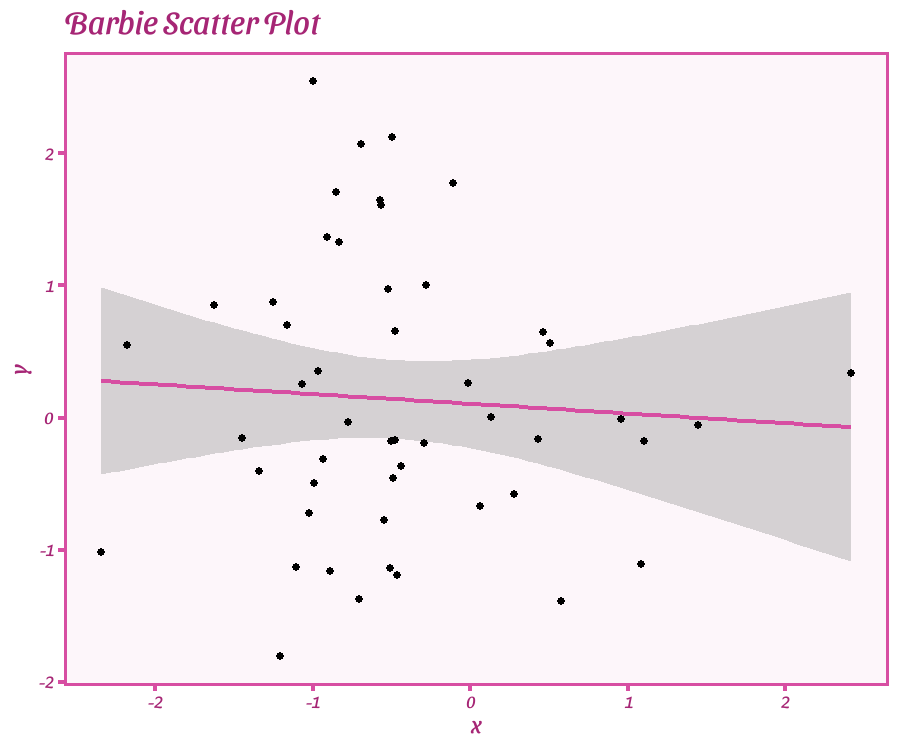
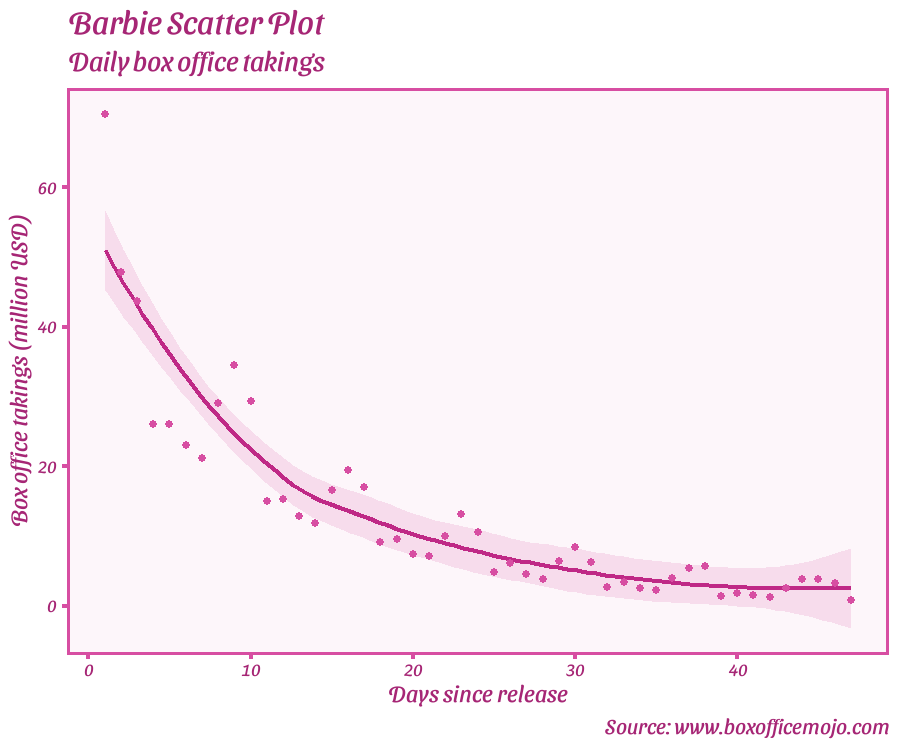
Update Barbie example
Use in-built dataset on Barbie box office stats.

Changed region(s): [[0.0, 0.0, 0.9956, 0.9507], [0.6533, 0.9507, 0.9956, 0.9813], [0.4044, 0.2453, 0.4356, 0.276]]

diff --git a/README.md b/README.md
@@ -1,12 +1,7 @@
 
 <!-- README.md is generated from README.Rmd. Please edit that file -->
 
-<figure>
-<img
-src="https://github.com/MatthewBJane/theme_park/assets/52077481/4c2e2885-d879-46e6-b61d-b253d8382597"
-alt="theme_park_banner" />
-<figcaption aria-hidden="true">theme_park_banner</figcaption>
-</figure>
+![theme_park_banner](https://github.com/MatthewBJane/theme_park/assets/52077481/4c2e2885-d879-46e6-b61d-b253d8382597)
 
 # ThemePark
 
@@ -30,31 +25,31 @@ add it or respond with suggested edits. Have fun with it!
 
 ## Themes contributed
 
-| Name                   | Theme                    | Creator(s)                  |
-|------------------------|--------------------------|-----------------------------|
-| **Barbie**             | `theme_barbie()`         | Matthew B. Jané             |
-| **Oppenheimer**        | `theme_oppenheimer()`    | Matthew B. Jané & Toki Liam |
-| **Star Wars**          | `theme_starwars()`       | Matthew B. Jané             |
-| **Zelda**              | `theme_zelda()`          | Alex Slavenko               |
-| **Terminator**         | `theme_terminator()`     | Alex Slavenko               |
-| **Spiderman**          | `theme_spiderman()`      | Velu P.K. Immonen           |
-| **Avatar**             | `theme_avatar()`         | Velu P.K. Immonen           |
-| **Gryffindor**         | `theme_gryffindor()`     | Begum Ozemek                |
-| **Hufflepuff**         | `theme_hufflepuff()`     | Begum Ozemek                |
-| **Ravenclaw**          | `theme_ravenclaw()`      | Begum Ozemek                |
-| **Slytherin**          | `theme_slytherin()`      | Begum Ozemek                |
-| **Futurama**           | `theme_futurama()`       | Tylor J. Harlow             |
-| **Simpsons**           | `theme_simpsons()`       | Tylor J. Harlow             |
-| **Lord of the Rings**  | `theme_lordoftherings()` | Ethan Milne                 |
-| **Game of Thrones**    | `theme_gameofthrones()`  | Brennan Antone              |
-| **Godfather**          | `theme_godfather()`      | Francisco Garre-Frutos      |
-| **Finding Nemo**       | `theme_nemo()`           | Christopher T. Kenny        |
-| **Friends**            | `theme_friends()`        | Alexis van STRAATEN         |
-| **Alien**              | `theme_alien()`          | Luke Pilling                |
-|**Grand Budapest Hotel**| `theme_grand_budapest`   | Katya Kustova               |
-|**Asteroid City**       | `theme_asteroid_city`    | Katya Kustova               |
-|**French Dispatch**     | `theme_french_dispatch`  | Katya Kustova               |
-|**Moonrise Kingdom**    | `theme_moonrise_kingdom` | Katya Kustova               |
+| Name                     | Theme                    | Creator(s)                  |
+|--------------------------|--------------------------|-----------------------------|
+| **Barbie**               | `theme_barbie()`         | Matthew B. Jané             |
+| **Oppenheimer**          | `theme_oppenheimer()`    | Matthew B. Jané & Toki Liam |
+| **Star Wars**            | `theme_starwars()`       | Matthew B. Jané             |
+| **Zelda**                | `theme_zelda()`          | Alex Slavenko               |
+| **Terminator**           | `theme_terminator()`     | Alex Slavenko               |
+| **Spiderman**            | `theme_spiderman()`      | Velu P.K. Immonen           |
+| **Avatar**               | `theme_avatar()`         | Velu P.K. Immonen           |
+| **Gryffindor**           | `theme_gryffindor()`     | Begum Ozemek                |
+| **Hufflepuff**           | `theme_hufflepuff()`     | Begum Ozemek                |
+| **Ravenclaw**            | `theme_ravenclaw()`      | Begum Ozemek                |
+| **Slytherin**            | `theme_slytherin()`      | Begum Ozemek                |
+| **Futurama**             | `theme_futurama()`       | Tylor J. Harlow             |
+| **Simpsons**             | `theme_simpsons()`       | Tylor J. Harlow             |
+| **Lord of the Rings**    | `theme_lordoftherings()` | Ethan Milne                 |
+| **Game of Thrones**      | `theme_gameofthrones()`  | Brennan Antone              |
+| **Godfather**            | `theme_godfather()`      | Francisco Garre-Frutos      |
+| **Finding Nemo**         | `theme_nemo()`           | Christopher T. Kenny        |
+| **Friends**              | `theme_friends()`        | Alexis van STRAATEN         |
+| **Alien**                | `theme_alien()`          | Luke Pilling                |
+| **Grand Budapest Hotel** | `theme_grand_budapest`   | Katya Kustova               |
+| **Asteroid City**        | `theme_asteroid_city`    | Katya Kustova               |
+| **French Dispatch**      | `theme_french_dispatch`  | Katya Kustova               |
+| **Moonrise Kingdom**     | `theme_moonrise_kingdom` | Katya Kustova               |
 
 ## Installation
 
@@ -84,18 +79,33 @@ head(themepark_themes)
 ```
 
 The Barbie theme (`theme_barbie()`) has been one of the most popular
-themes from `ThemePark`.
+themes from `ThemePark`. Use it with the included dataset
+`barbie_box_office` like below:
 
 ``` r
 library(ggplot2)
-`X variable` <- rnorm(50, 0, 1)
-`Y variable` <- rnorm(50, 0, 1)
+#> Warning: package 'ggplot2' was built under R version 4.2.3
 
-ggplot(data = data.frame(x = `X variable`, y = `Y variable`), aes(x = x, y = y)) +
-  geom_smooth(method = 'lm', color = barbie_theme_colors["medium"]) +
-  geom_point() +
-  labs(title = 'Barbie Scatter Plot') +
-  theme_barbie()
+# see suggested colours in the palette
+barbie_theme_colors
+#>        text       panel      border     lighter       light      medium 
+#> "#a62675ff" "#fdf6faff" "#d74ea2ff" "#f5d1e6ff" "#eeb4d7ff" "#d74ea2ff" 
+#>        dark 
+#> "#bf2986ff"
+
+# plot Box Office Takings (in million USD) over Days Since Release
+ggplot(barbie_box_office |> dplyr::mutate(daily=daily/1000000), 
+       aes(x = day, y = daily)) +
+    geom_smooth(method = 'loess', 
+                color  = barbie_theme_colors["dark"],
+                fill   = barbie_theme_colors["light"]) +
+    geom_point(color = barbie_theme_colors["medium"]) +
+    labs(title = "Barbie Scatter Plot",
+         subtitle = "Daily box office takings",
+         caption  = "Source: www.boxofficemojo.com",
+         x = "Days since release",
+         y = "Box office takings (million USD)") +
+    theme_barbie()
 #> `geom_smooth()` using formula = 'y ~ x'
 ```
 
@@ -110,6 +120,9 @@ gameofthrones_theme_colors
 #>  "#1f0700"  "#D7B257"  "#F2F3B8"  "#BD6D33"  "#F2F3B8"  "#DFCB69"  "#BD6D33" 
 #>       dark 
 #>  "#8C4522"
+
+`X variable` <- rnorm(50, 0, 1)
+`Y variable` <- rnorm(50, 0, 1)
 
 ggplot(data = NULL, aes(x = `X variable`, y = `Y variable`)) +
   theme_gameofthrones(gameofthrones_font = TRUE) +
@@ -167,7 +180,7 @@ ggplot(data.frame(x = rnorm(100), y = rnorm(100)), aes(x, y)) +
 
 ### BibTeX:
 
-    @software{JaneThemePark2023,
+    @software{JaneBarbie2023,
       author = {Jané, Matthew B. and Pilling, Luke C. and Kenny, Christopher T.},
       month = {6},
       title = {theme_park: popular culture ggplot themes},
@@ -178,6 +191,6 @@ ggplot(data.frame(x = rnorm(100), y = rnorm(100)), aes(x, y)) +
 
 ### APA:
 
-Jané, M.B., Pilling, Luke C., & Kenny, Christopher T. (2023). theme_park:
-popular culture ggplot themes (Version 0.0.9) \[Source Code\].
-<https://github.com/MatthewBJane/theme_park>
+Jané, M.B., Pilling, Luke C., & Kenny, Christopher T. (2023).
+theme_park: popular culture ggplot themes (Version 0.0.9) \[Source
+Code\]. <https://github.com/MatthewBJane/theme_park>
